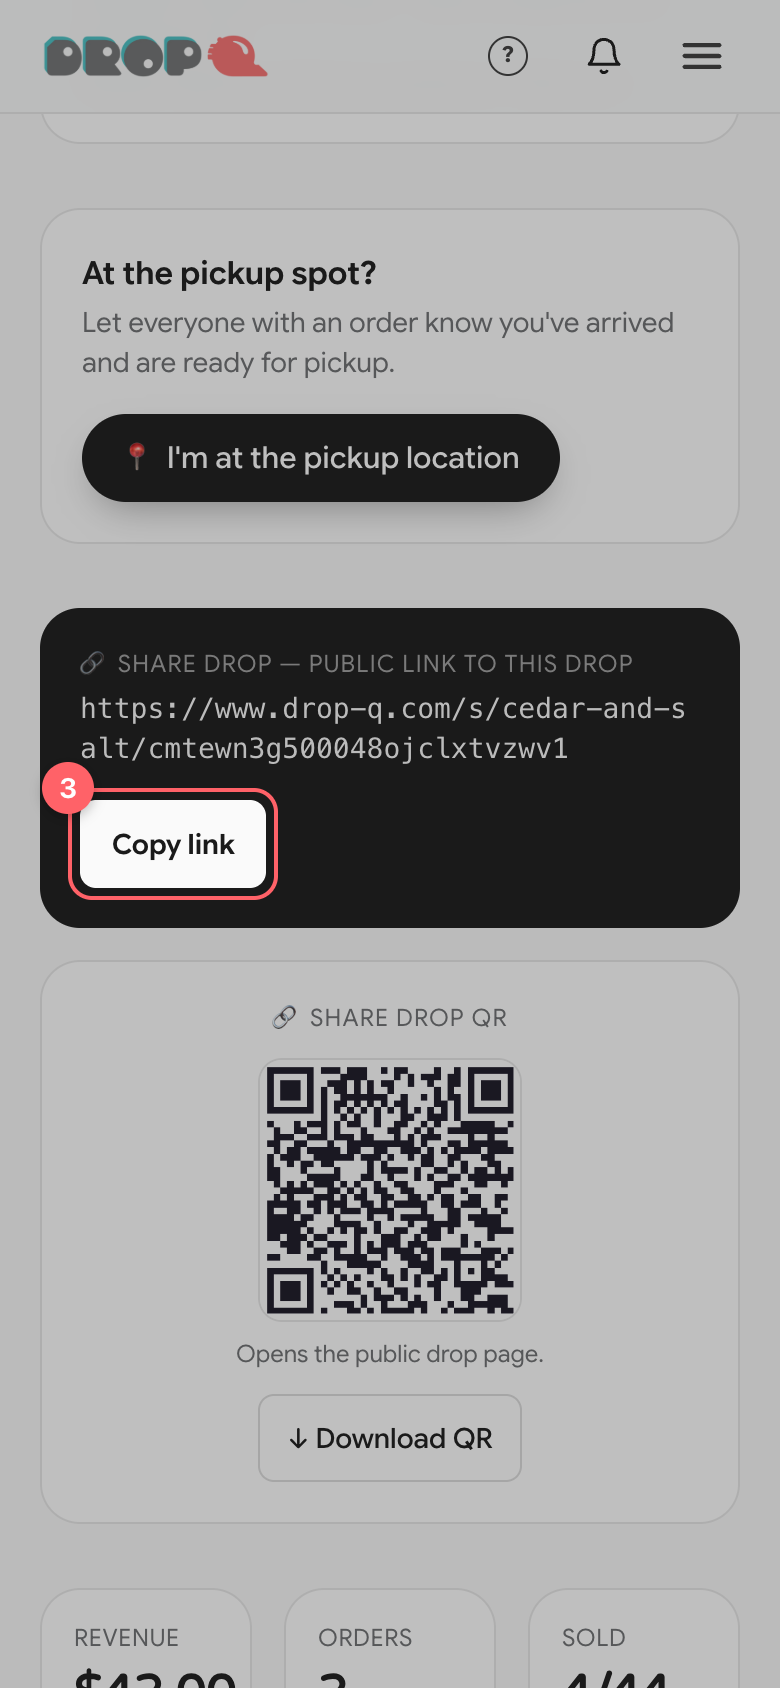
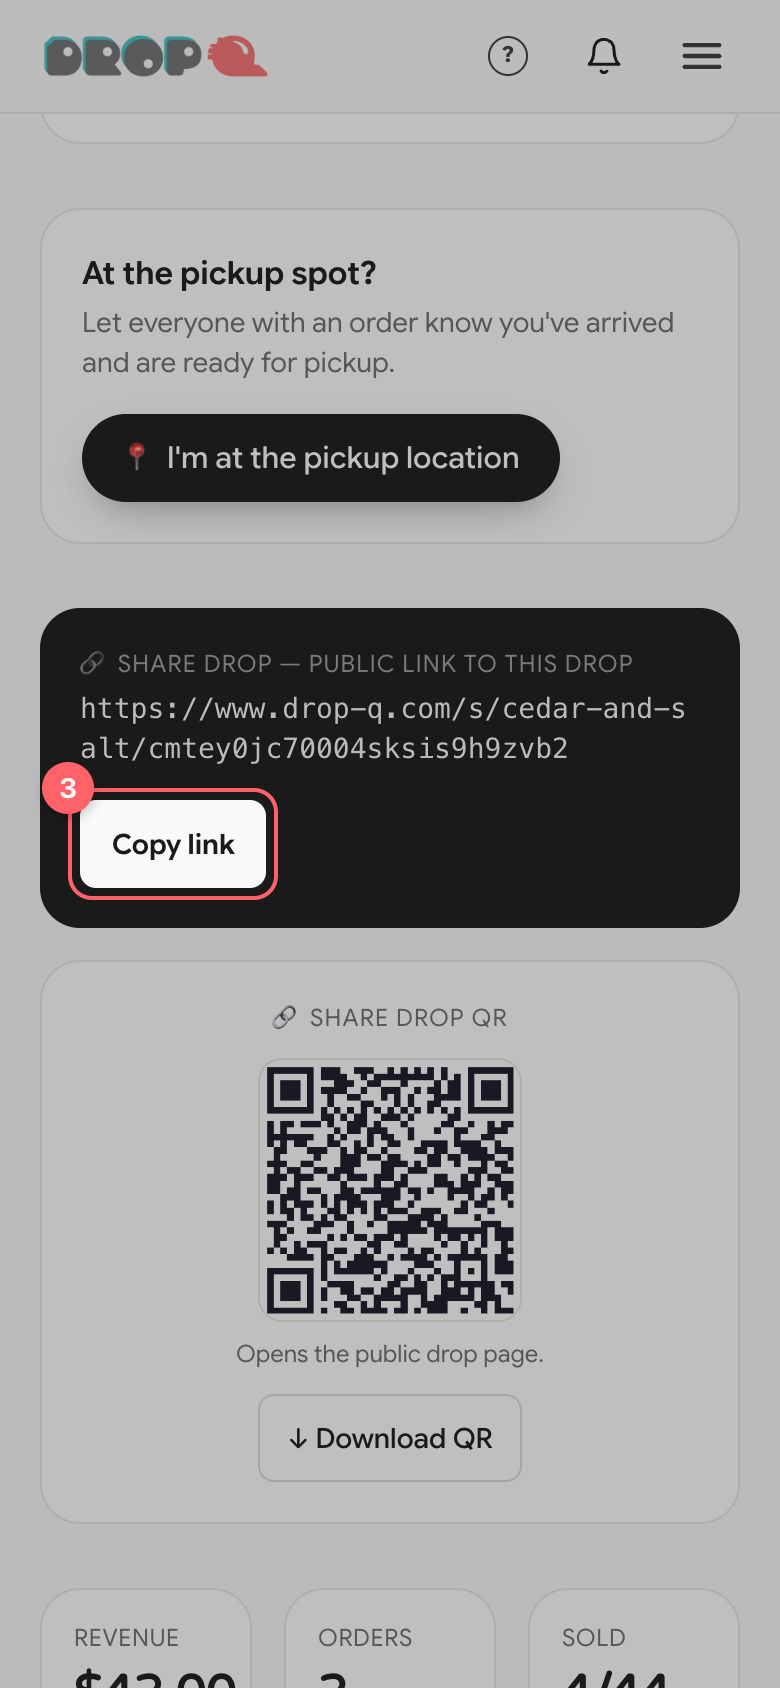
Label the per-drop quantity field, and build share links from APP_URL
Two corrections found while reviewing the Phase 5 documentation images.

The item quantity field asked "How many for this drop?" in a placeholder. That
field is half a phone wide — 50px of usable room at 320px — so the question
truncated to "How many f" and the one thing a new vendor most needs to
understand about inventory was invisible on the device most of them use. The
meaning moves to a visible label ("Qty for this drop"), which wraps instead of
clipping, and the placeholder shrinks to "0" to match the price field beside
it. Price gains a matching label; both inputs align at the bottom of the row so
a wrapped label doesn't stagger them. The labels are properly associated with
their inputs, replacing the old aria-label, with ids from useId() rather than
the module-level row counter (which keeps climbing on the server across
requests and hydrated mismatched).

The drop page built its share link, and the QR code from it, out of the request
Host header. Every other place that produces a link for someone to click later
— checkout returns, reminder SMS, referral links, lib/actions/dashboard's
baseUrl() — reads APP_URL first and falls back to the request. The drop page
now does the same. Behaviour is unchanged when APP_URL is unset, and unchanged
in production when it matches the domain; what it fixes is a link or a printed
QR carrying whatever host the vendor happened to reach the dashboard on.

That also makes the documentation honest: the capture runner starts its stack
[…]

diff --git a/components/drop-editor.tsx b/components/drop-editor.tsx
@@ -1,6 +1,6 @@
 "use client";
 
-import { useState } from "react";
+import { useId, useState } from "react";
 import { useFormStatus } from "react-dom";
 import { Button, Field, Input, Textarea, Select } from "@/components/ui";
 import { vocab, showItemMeta, isFood } from "@/lib/category";
@@ -248,6 +248,13 @@ export function DropEditor({
       : [blankRow(defaultEmoji), blankRow(defaultEmoji)];
 
   const [rows, setRows] = useState<Row[]>(initialRows);
+  /**
+   * Prefix for the per-item field ids that the price / quantity labels point
+   * at. NOT `row.key`: that counter is module state, so it keeps climbing on
+   * the server across requests while a fresh client starts at zero, and the
+   * ids hydrate mismatched. `useId()` is generated to match on both sides.
+   */
+  const fieldId = useId();
   const [error, setError] = useState<string | null>(null);
   const [saveToLibrary, setSaveToLibrary] = useState(true);
   const [libOpen, setLibOpen] = useState(false);
@@ -727,27 +734,59 @@ export function DropEditor({
                       placeholder="Short description (optional)"
                       className="w-full bg-paper border border-line-strong rounded-lg px-3 py-2 text-sm text-ink placeholder:text-muted/70 focus:outline-none focus:border-brand focus:ring-2 focus:ring-brand/20"
                     />
-                    <div className="flex gap-3">
-                      <div className="relative flex-1">
-                        <span className="absolute left-3 top-1/2 -translate-y-1/2 text-muted text-sm">$</span>
-                        <input
-                          name="p_price"
-                          value={row.price}
-                          onChange={(e) => update(row.key, { price: e.target.value })}
-                          inputMode="decimal"
-                          placeholder="0.00"
-                          className="w-full bg-paper border border-line-strong rounded-lg pl-7 pr-3 py-2 text-ink placeholder:text-muted/70 focus:outline-none focus:border-brand focus:ring-2 focus:ring-brand/20"
-                        />
+                    {/*
+                      Price and quantity, side by side — so each field is about
+                      half a phone's width, which is 50px of usable room at
+                      320px. A placeholder cannot say "how many for this drop"
+                      in 50px; it just truncates to "How many f" and teaches
+                      nobody anything. A LABEL can, because it wraps instead of
+                      clipping. So the meaning lives in the label and the
+                      placeholder stays short enough to survive any width.
+                    */}
+                    {/*
+                      `items-stretch` + `mt-auto`: at 320px "Qty for this drop"
+                      wraps to two lines while "Price" stays on one, and without
+                      this the two inputs sit at different heights.
+                    */}
+                    <div className="flex items-stretch gap-3">
+                      <div className="flex-1 min-w-0 flex flex-col">
+                        <label
+                          htmlFor={`${fieldId}-price-${i}`}
+                          className="block text-xs font-medium text-muted mb-1"
+                        >
+                          Price
+                        </label>
+                        <div className="relative mt-auto">
+                          <span className="absolute left-3 top-1/2 -translate-y-1/2 text-muted text-sm">$</span>
+                          <input
+                            id={`${fieldId}-price-${i}`}
+                            name="p_price"
+                            value={row.price}
+                            onChange={(e) => update(row.key, { price: e.target.value })}
+                            inputMode="decimal"
+                            placeholder="0.00"
+                            className="w-full bg-paper border border-line-strong rounded-lg pl-7 pr-3 py-2 text-ink placeholder:text-muted/70 focus:outline-none focus:border-brand focus:ring-2 focus:ring-brand/20"
+                          />
+                        </div>
                       </div>
-                      <div className="relative flex-1" {...(i === 0 ? { "data-guidance-anchor": "editor.inventory" } : {})}>
+                      <div
+                        className="flex-1 min-w-0 flex flex-col"
+                        {...(i === 0 ? { "data-guidance-anchor": "editor.inventory" } : {})}
+                      >
+                        <label
+                          htmlFor={`${fieldId}-qty-${i}`}
+                          className="block text-xs font-medium text-muted mb-1"
+                        >
+                          Qty for this drop
+                        </label>
                         <input
+                          id={`${fieldId}-qty-${i}`}
                           name="p_inventory"
                           value={row.inventory}
                           onChange={(e) => update(row.key, { inventory: e.target.value })}
                           inputMode="numeric"
-                          aria-label="How many available in this drop"
-                          placeholder="How many for this drop?"
-                          className="w-full bg-paper border border-line-strong rounded-lg px-3 py-2 text-ink placeholder:text-muted/70 focus:outline-none focus:border-brand focus:ring-2 focus:ring-brand/20"
+                          placeholder="0"
+                          className="w-full mt-auto bg-paper border border-line-strong rounded-lg px-3 py-2 text-ink placeholder:text-muted/70 focus:outline-none focus:border-brand focus:ring-2 focus:ring-brand/20"
                         />
                       </div>
                     </div>

diff --git a/app/api/dev/guidance-selftest/route.ts b/app/api/dev/guidance-selftest/route.ts
@@ -849,8 +849,15 @@ export async function GET() {
       check("inventory guidance names the library confusion",
         /not a running total/i.test(inv.body));
       const editorSrc = readFileSync("components/drop-editor.tsx", "utf8");
-      check("the inventory field asks the question in plain language",
-        /How many for this drop\?/.test(editorSrc));
+      // A VISIBLE label, not a placeholder. At 320px the field is ~50px wide,
+      // so a placeholder carrying this meaning truncates to nonsense; a label
+      // wraps. The placeholder must stay short enough to survive that width.
+      check("the quantity field is labelled, and the label says which drop",
+        /htmlFor=\{`\$\{fieldId\}-qty-\$\{i\}`\}/.test(editorSrc) &&
+        /id=\{`\$\{fieldId\}-qty-\$\{i\}`\}/.test(editorSrc) &&
+        /Qty for this drop/.test(editorSrc));
+      check("the quantity placeholder is short enough for a phone",
+        (editorSrc.match(/name="p_inventory"[\s\S]{0,400}?placeholder="([^"]*)"/)?.[1] ?? "x".repeat(99)).length <= 4);
       check("the saved-product picker says stock is per drop",
         /You still set how many you&apos;re selling in/.test(editorSrc) ||
         /still set how many/.test(editorSrc));

diff --git a/app/dashboard/drops/[id]/page.tsx b/app/dashboard/drops/[id]/page.tsx
@@ -82,10 +82,17 @@ export default async function DropDetailPage({
         select: { id: true },
       });
 
+  // APP_URL first, then the request — the same order as baseUrl() in
+  // lib/actions/dashboard.ts and the referral link on the dashboard. This link
+  // and the QR built from it get printed and posted, so they should carry the
+  // canonical domain rather than whichever host the vendor happened to reach
+  // the dashboard on. Falls back to the request host when APP_URL is unset,
+  // which is exactly the previous behaviour.
   const h = await headers();
-  const host = h.get("host") ?? "localhost:3001";
-  const proto = h.get("x-forwarded-proto") ?? "http";
-  const shareUrl = `${proto}://${host}/s/${seller.slug}/${drop.id}`;
+  const origin =
+    process.env.APP_URL?.replace(/\/$/, "") ??
+    `${h.get("x-forwarded-proto") ?? "http"}://${h.get("host") ?? "localhost:3001"}`;
+  const shareUrl = `${origin}/s/${seller.slug}/${drop.id}`;
   const qrDataUrl = await QRCode.toDataURL(shareUrl, {
     width: 360,
     margin: 1,

diff --git a/tests/browser/README.md b/tests/browser/README.md
@@ -130,10 +130,12 @@ Things that were learned the hard way and are now enforced in code:
   element used to be. There are guards for both off-screen highlights and
   highlights that cover more than 55% of the frame.
 
-Known limitation: the **QR code images encode the local capture origin**, not
-`drop-q.com`. The share link text is rewritten (`rewrites: ["origin"]` in the
-manifest) but the QR is a server-rendered PNG built from the request's Host
-header. It is illustrative only — don't scan it.
+Share links and QR codes read `drop-q.com`, not the capture port, because the
+runner starts the stack with `appUrl: PUBLIC_ORIGIN`. That matters for the QR
+in particular: it is a server-built PNG, so no amount of DOM rewriting could
+have corrected it. The DOM-level origin rewrite is still in place as a safety
+net — if a shot ever reports `rewrites: ["origin"]`, something rendered a URL
+from the request host instead of `APP_URL`.
 
 After any UI change to a documented screen, regenerate and *look at the images*.
 `--check` proves they exist; only your eyes prove they are still true.
